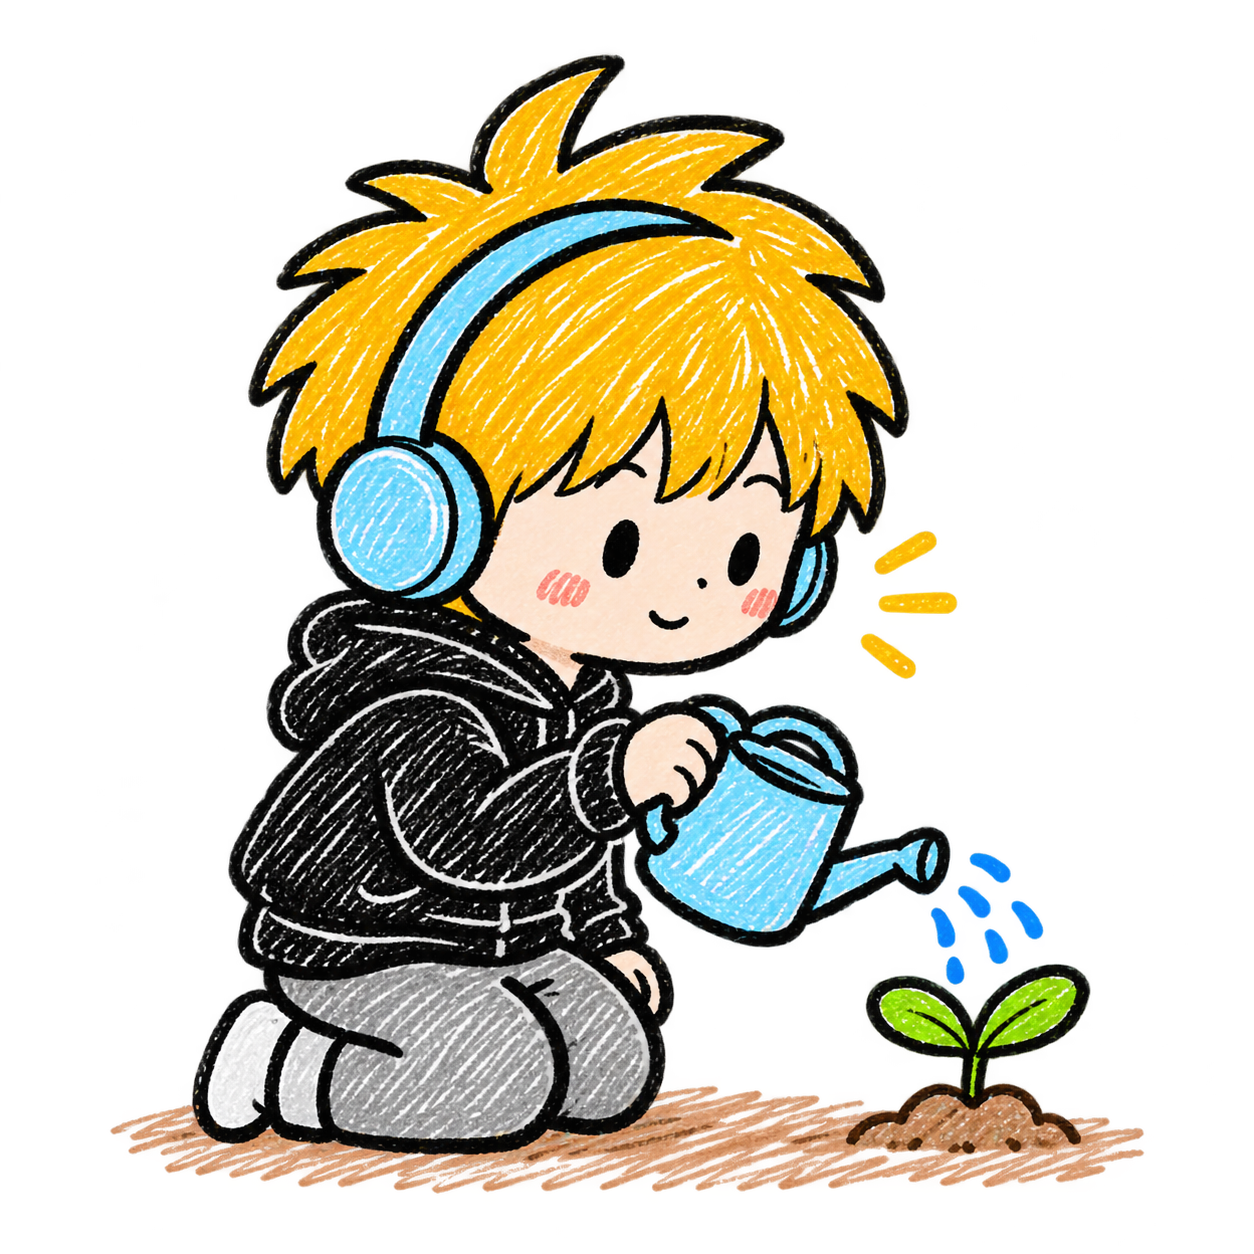
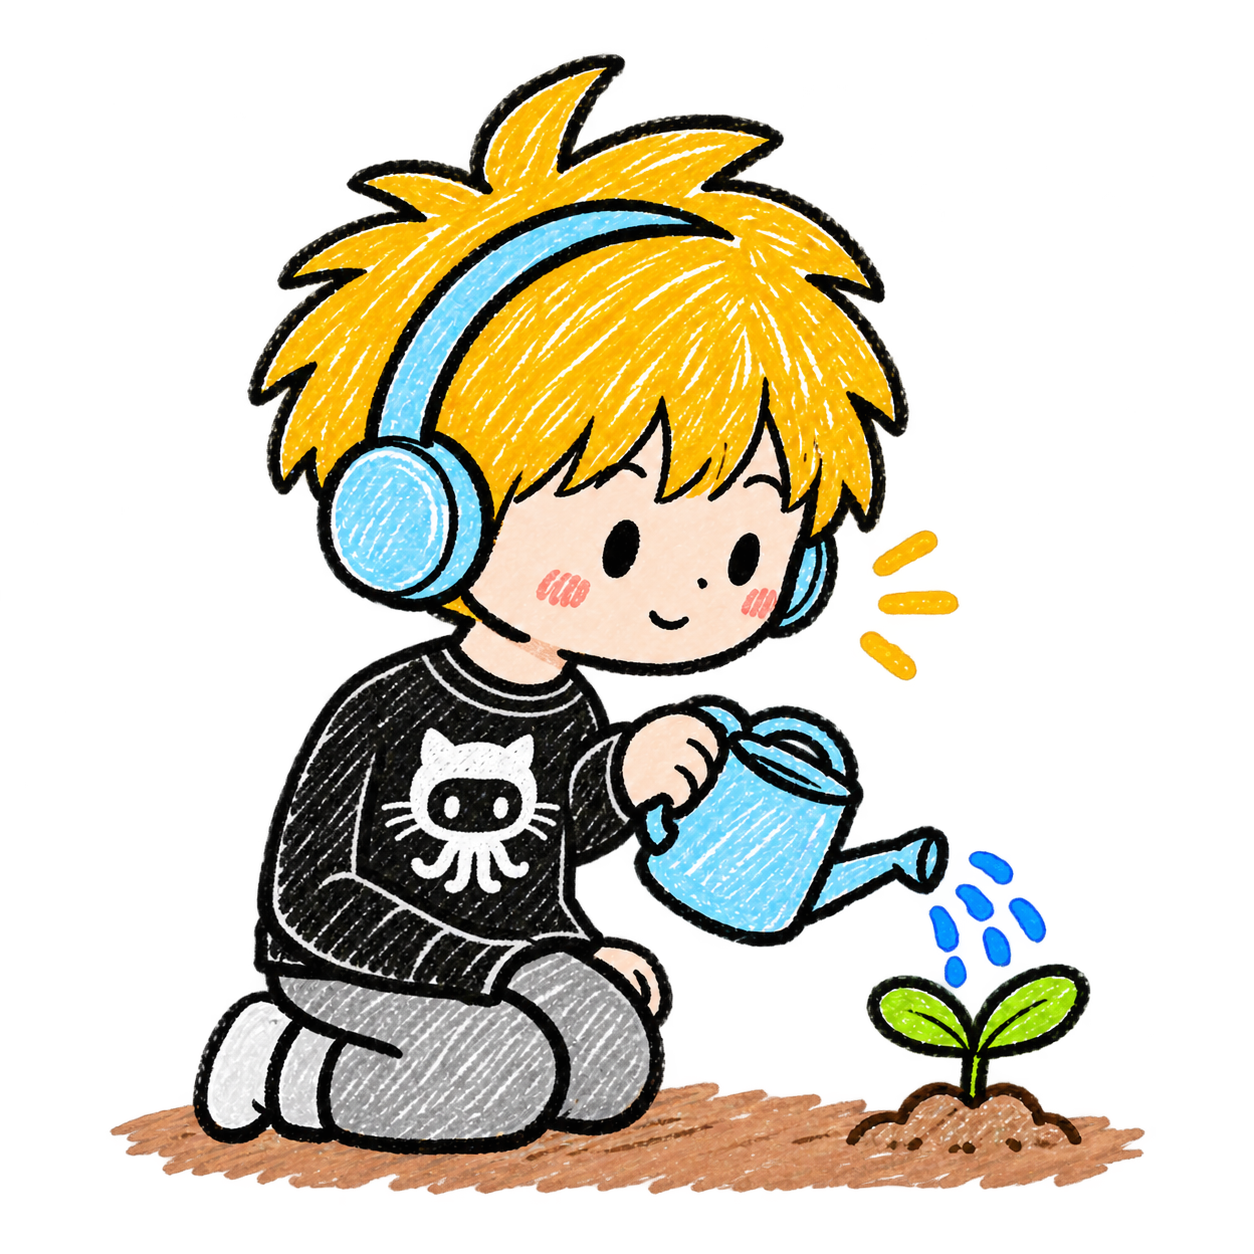
Dress Anjing in GitHub long sleeves

diff --git a/.github/actions/star-growth/artwork.prompt.md b/.github/actions/star-growth/artwork.prompt.md
@@ -1,5 +1,7 @@
 # Decorative art only
 
+Current clothing revision (built-in imagegen, identity-preserve): change only the black hoodie to a black crew-neck GitHub long-sleeve shirt, no hood, with a hand-drawn white Octocat emblem on the chest. Preserve yellow messy hair, blue headphones, round dot-eye face, smile, blush, kneeling pose, gray trousers, watering can, sprout and transparent background. Keep rough crayon fills and uneven marker outlines. No chart elements or text.
+
 Generated with built-in imagegen, transparent background. All chart elements are generated separately from GitHub data.
 
 Use case: background-extraction. Edit supplied preview. Extract ONLY the left illustration of Anjing kneeling, watering can and little sprout with small ground scribble. Keep exact recurring yellow messy hair, blue headphones, black hoodie, cute dot face, rough wax-crayon/black marker texture. Output that isolated character-and-sprout on genuinely transparent background, portrait/square framing with modest padding. REMOVE ENTIRE chart, line, axes, stars, guide lines, all labels, titles and footer. No text, numerals or graph in output. Do not repaint the character or add anything. Transparent alpha, no white rectangle. This will be decorative artwork beside a separately programmatically rendered truthful data chart.
